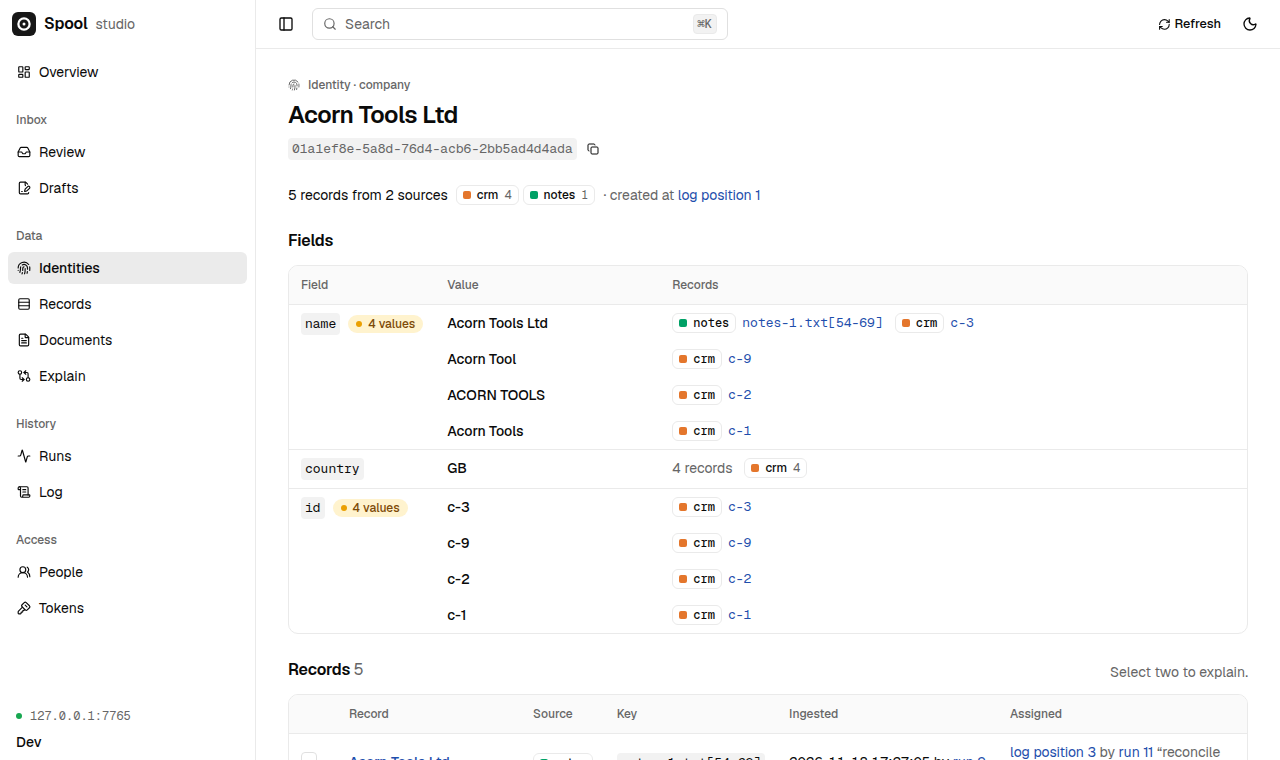
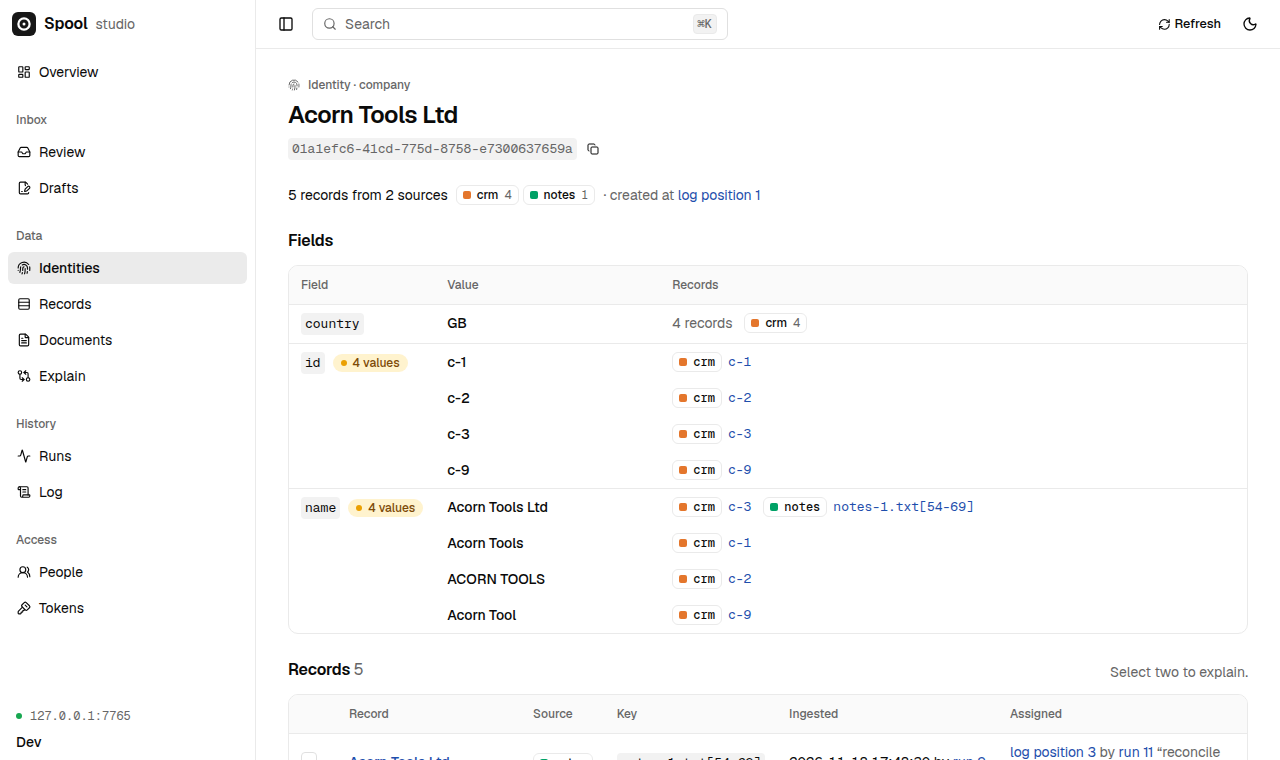
Show the rows and the note on the README's first screen
The opening block now loads both files of rows, extracts the note and
matches after each, and ends with the twelve records that gives. Getting
started explains each command without repeating that listing, and lists
the six identities at the end of the extraction step.

- The listings have the columns `spool show records` and
  `spool show identities` print: no column of record IDs.
- `spool init` names `spool load` among its next steps.
- Your own file is loaded with `--source`, since a file that is named
  after no source is refused when a project has two.
- The status line gives the version and the date of the first commit.
- The screenshot is retaken, so its identity ID is the one in the listings.

diff --git a/README.md b/README.md
@@ -8,7 +8,8 @@ Working out which records are the same thing is called entity resolution, or rec
 
 ```sh
 curl -fsSL https://github.com/alexpatow/spool/releases/latest/download/install.sh | sh
-spool init companies && cd companies
+spool init companies
+cd companies
 spool dev
 ```
 
@@ -17,28 +18,38 @@ In a second terminal, in `companies`:
 ```sh
 spool load samples/crm-1.csv
 spool match
+spool load samples/crm-2.csv
+spool match
+spool extract samples/notes-1.txt
+spool match
 spool show records
 ```
 
-The last command prints this, after a first column of record IDs that is left out here to fit:
+That loads nine rows of a CRM export from two files, then finds the three companies a call note names, and matches after each. The last command lists the twelve records with the identity of each:
 
 ```text
-source and key  name                 identity
-crm:c-1         Acorn Tools          01a1ef8e-5a8d-76d4-acb6-2bb5ad4d4ada
-crm:c-2         ACORN TOOLS          01a1ef8e-5a8d-76d4-acb6-2bb5ad4d4ada
-crm:c-3         Acorn Tools Ltd      01a1ef8e-5a8d-76d4-acb6-2bb5ad4d4ada
-crm:c-4         Larkfield Logistics  01a1ef8e-5a8d-76d4-acb6-2bb802d5ca25
-crm:c-5         Halden Group         01a1ef8e-5a8d-76d4-acb6-2bb793e9d0ae
-crm:c-6         Halden Group         01a1ef8e-5a8d-76d4-acb6-2bb65a02262a
+source and key              name                     identity
+crm:c-1                     Acorn Tools              01a1efc6-41cd-775d-8758-e7300637659a
+crm:c-2                     ACORN TOOLS              01a1efc6-41cd-775d-8758-e7300637659a
+crm:c-3                     Acorn Tools Ltd          01a1efc6-41cd-775d-8758-e7300637659a
+crm:c-4                     Larkfield Logistics      01a1efc6-41cd-775d-8758-e733aa086f7d
+crm:c-5                     Halden Group             01a1efc6-41cd-775d-8758-e7329447fd9a
+crm:c-6                     Halden Group             01a1efc6-41cd-775d-8758-e731c61371cb
+crm:c-7                     Larkfeild Logistics      01a1efc6-41cd-775d-8758-e733aa086f7d
+crm:c-8                     Kestrel Analytics        01a1efc6-42c0-7776-b736-83fde0cb4498
+crm:c-9                     Acorn Tool               01a1efc6-41cd-775d-8758-e7300637659a
+notes:notes-1.txt[54-69]    Acorn Tools Ltd          01a1efc6-41cd-775d-8758-e7300637659a
+notes:notes-1.txt[119-142]  Larkfield Logistics Ltd  01a1efc6-41cd-775d-8758-e733aa086f7d
+notes:notes-1.txt[179-200]  Brightwater Foods Ltd    01a1efc6-43a9-7403-b9f6-1f8ee76184ed
 ```
 
-Three spellings of Acorn Tools share an ID. The two Halden Groups are in different countries, and a rule keeps them apart.
+The twelve records are six companies. Five records are Acorn Tools: four spellings in the rows, and "Acorn Tools Ltd" in the note. Its ID was made by the first match and did not change when the later rows and the note arrived. The two Halden Groups are in different countries, and a rule keeps them apart.
 
-Version 0.1.0, for Linux and macOS. The first commit was on 14 November 2026, and nobody runs it in production yet. It is not for deduplicating one file once, for an answer per request, or for more than one machine: before you spend time on it, read [What it is not for](#what-it-is-not-for) and [What it does not do](#what-it-does-not-do).
+Version 0.1.0, for Linux and macOS. The first commit was on 14 November 2026. It is not for deduplicating one file once, for an answer per request, or for more than one machine: before you spend time on it, read [What it is not for](#what-it-is-not-for) and [What it does not do](#what-it-does-not-do).
 
 ## Getting started
 
-The commands above are all of it. This section says what each needs and does, and then goes on from the result.
+The commands above are all of it. This section says what each needs and does.
 
 You need Linux on x86-64 or arm64, or macOS on Apple silicon, and `curl`. There is no Windows build.
 
@@ -62,10 +73,17 @@ created   companies
 
   cd companies
   spool dev                          runs the server on this machine
+  spool load samples/crm-1.csv       loads the first rows, from a second terminal
   spool extract samples/notes-1.txt  finds the companies in the note
 ```
 
-`company` is an entity type: a kind of thing you want one ID for. The first file of rows is `samples/crm-1.csv`:
+`company` is an entity type: a kind of thing you want one ID for.
+
+**Start the server.** `spool dev` listens on `127.0.0.1:7765` only and asks nobody to sign in. Its data is in `.spool/dev.duckdb` inside the project, and it applies changes to the project's files as you save them. Leave it running.
+
+### Load rows and match
+
+The first file of rows is `samples/crm-1.csv`:
 
 ```csv
 id,name,country
@@ -77,20 +95,16 @@ c-5,Halden Group,GB
 c-6,Halden Group,US
 ```
 
-**Start the server.** `spool dev` listens on `127.0.0.1:7765` only and asks nobody to sign in. Its data is in `.spool/dev.duckdb` inside the project, and it applies changes to the project's files as you save them. Leave it running.
+`spool load` makes each row a record. Loading does not match, and loading the same file again adds nothing. `spool match` judges the records that are new, against each other and against the ones the store holds, and places them in identities. An identity is one company, with its ID and the records that belong to it. That ID is what other systems store. It is minted when the identity is created, so yours will differ from the ones here.
 
-**Load and match.** `spool load` makes each row a record. Loading does not match, and loading the same file again adds nothing. `spool match` judges the records that are new, against each other and against the ones the store holds, and places them in identities. An identity is one company, with its ID and the records that belong to it. That ID, in the last column of `spool show records`, is what other systems store.
-
-The ID of an identity is minted when the identity is created, so yours will differ from the ones here. The ID of a record is derived from its source, its key and its content, so yours will be the same.
-
-### Ask why
+The first match makes four identities of the six rows. `spool explain` says why two records share one, or why they do not:
 
 ```sh
 spool explain crm:c-5 crm:c-6
 ```
 
 ```text
-`crm:c-6` belongs to identity 01a1ef8e-5a8d-76d4-acb6-2bb65a02262a and `crm:c-5` to identity 01a1ef8e-5a8d-76d4-acb6-2bb793e9d0ae.
+`crm:c-6` belongs to identity 01a1efc6-41cd-775d-8758-e731c61371cb and `crm:c-5` to identity 01a1efc6-41cd-775d-8758-e7329447fd9a.
 Run 2 (strategy `rules`) judged them `no_match` (no_match rule `different_country` held).
 ...
 ```
@@ -110,21 +124,7 @@ l.country <> r.country
 
 ### Send more rows
 
-```sh
-spool load samples/crm-2.csv
-spool match
-spool show records
-```
-
-It prints the six lines from before, unchanged, and then three more:
-
-```text
-crm:c-7         Larkfeild Logistics  01a1ef8e-5a8d-76d4-acb6-2bb802d5ca25
-crm:c-8         Kestrel Analytics    01a1ef8e-5f06-7397-9a0c-445aaacfd3fe
-crm:c-9         Acorn Tool           01a1ef8e-5a8d-76d4-acb6-2bb5ad4d4ada
-```
-
-"Larkfeild Logistics" and "Acorn Tool" joined the identities that existed, and those kept their IDs. Kestrel Analytics is new and got a new one. Nothing that was placed before moved.
+`samples/crm-2.csv` has three more rows, c-7 to c-9. After the second match, "Larkfeild Logistics" and "Acorn Tool" are in the identities that existed, and those have the IDs they had. Kestrel Analytics is new and has a new one. Nothing that was placed before moved.
 
 ### Extract records from text
 
@@ -144,20 +144,17 @@ attribute: name
 pattern: '(?:[A-Z][A-Za-z]+ )+(?:Ltd|Inc|LLC|GmbH|plc)\b'
 ```
 
-```sh
-spool extract samples/notes-1.txt
-spool match
-spool show records --source notes
-```
+`spool extract` stores the document and runs the extractor over it. Three records come out of the note, each with the document and the characters it was found at. They are records like the rows, so the same rules match them: "Acorn Tools Ltd" and "Larkfield Logistics Ltd" join the identities the rows made, and Brightwater Foods is new. `spool show identities` lists the six companies:
 
 ```text
-source and key              name                     identity
-notes:notes-1.txt[54-69]    Acorn Tools Ltd          01a1ef8e-5a8d-76d4-acb6-2bb5ad4d4ada
-notes:notes-1.txt[119-142]  Larkfield Logistics Ltd  01a1ef8e-5a8d-76d4-acb6-2bb802d5ca25
-notes:notes-1.txt[179-200]  Brightwater Foods Ltd    01a1efb2-a9b4-769e-8812-53d98f9ad4ca
+identity                              name                   members  created at
+01a1efc6-41cd-775d-8758-e7300637659a  Acorn Tools Ltd        5        log position 1
+01a1efc6-41cd-775d-8758-e731c61371cb  Halden Group           1        log position 1
+01a1efc6-41cd-775d-8758-e7329447fd9a  Halden Group           1        log position 1
+01a1efc6-41cd-775d-8758-e733aa086f7d  Larkfield Logistics    3        log position 1
+01a1efc6-42c0-7776-b736-83fde0cb4498  Kestrel Analytics      1        log position 2
+01a1efc6-43a9-7403-b9f6-1f8ee76184ed  Brightwater Foods Ltd  1        log position 3
 ```
-
-Three records came out of the note, each with the document and the characters it was found at. They are records like the rows, so the same rules matched them: "Acorn Tools Ltd" and "Larkfield Logistics Ltd" joined the identities the rows made, and Brightwater Foods is new.
 
 A pattern finds only what is written the way it expects. An extractor can also be a Python or TypeScript file in `extractors/`, which can call a language model, and which Spool runs with `uv` or `bun`.
 
@@ -193,7 +190,7 @@ The studio is at <http://127.0.0.1:7765/>. It shows the same records, identities
 
 ### Stop, and your own rows
 
-Ctrl-C in the first terminal stops the server. The data stays in `.spool/dev.duckdb`. To start from nothing, stop the server and delete `.spool`. For your own rows, edit the columns in `sources/crm.yaml` and the rules, then run `spool load your-file.csv`.
+Ctrl-C in the first terminal stops the server. The data stays in `.spool/dev.duckdb`. To start from nothing, stop the server and delete `.spool`. For your own rows, edit the columns in `sources/crm.yaml` and the rules, then run `spool load your-file.csv --source crm`.
 
 ## What it is not for
 
